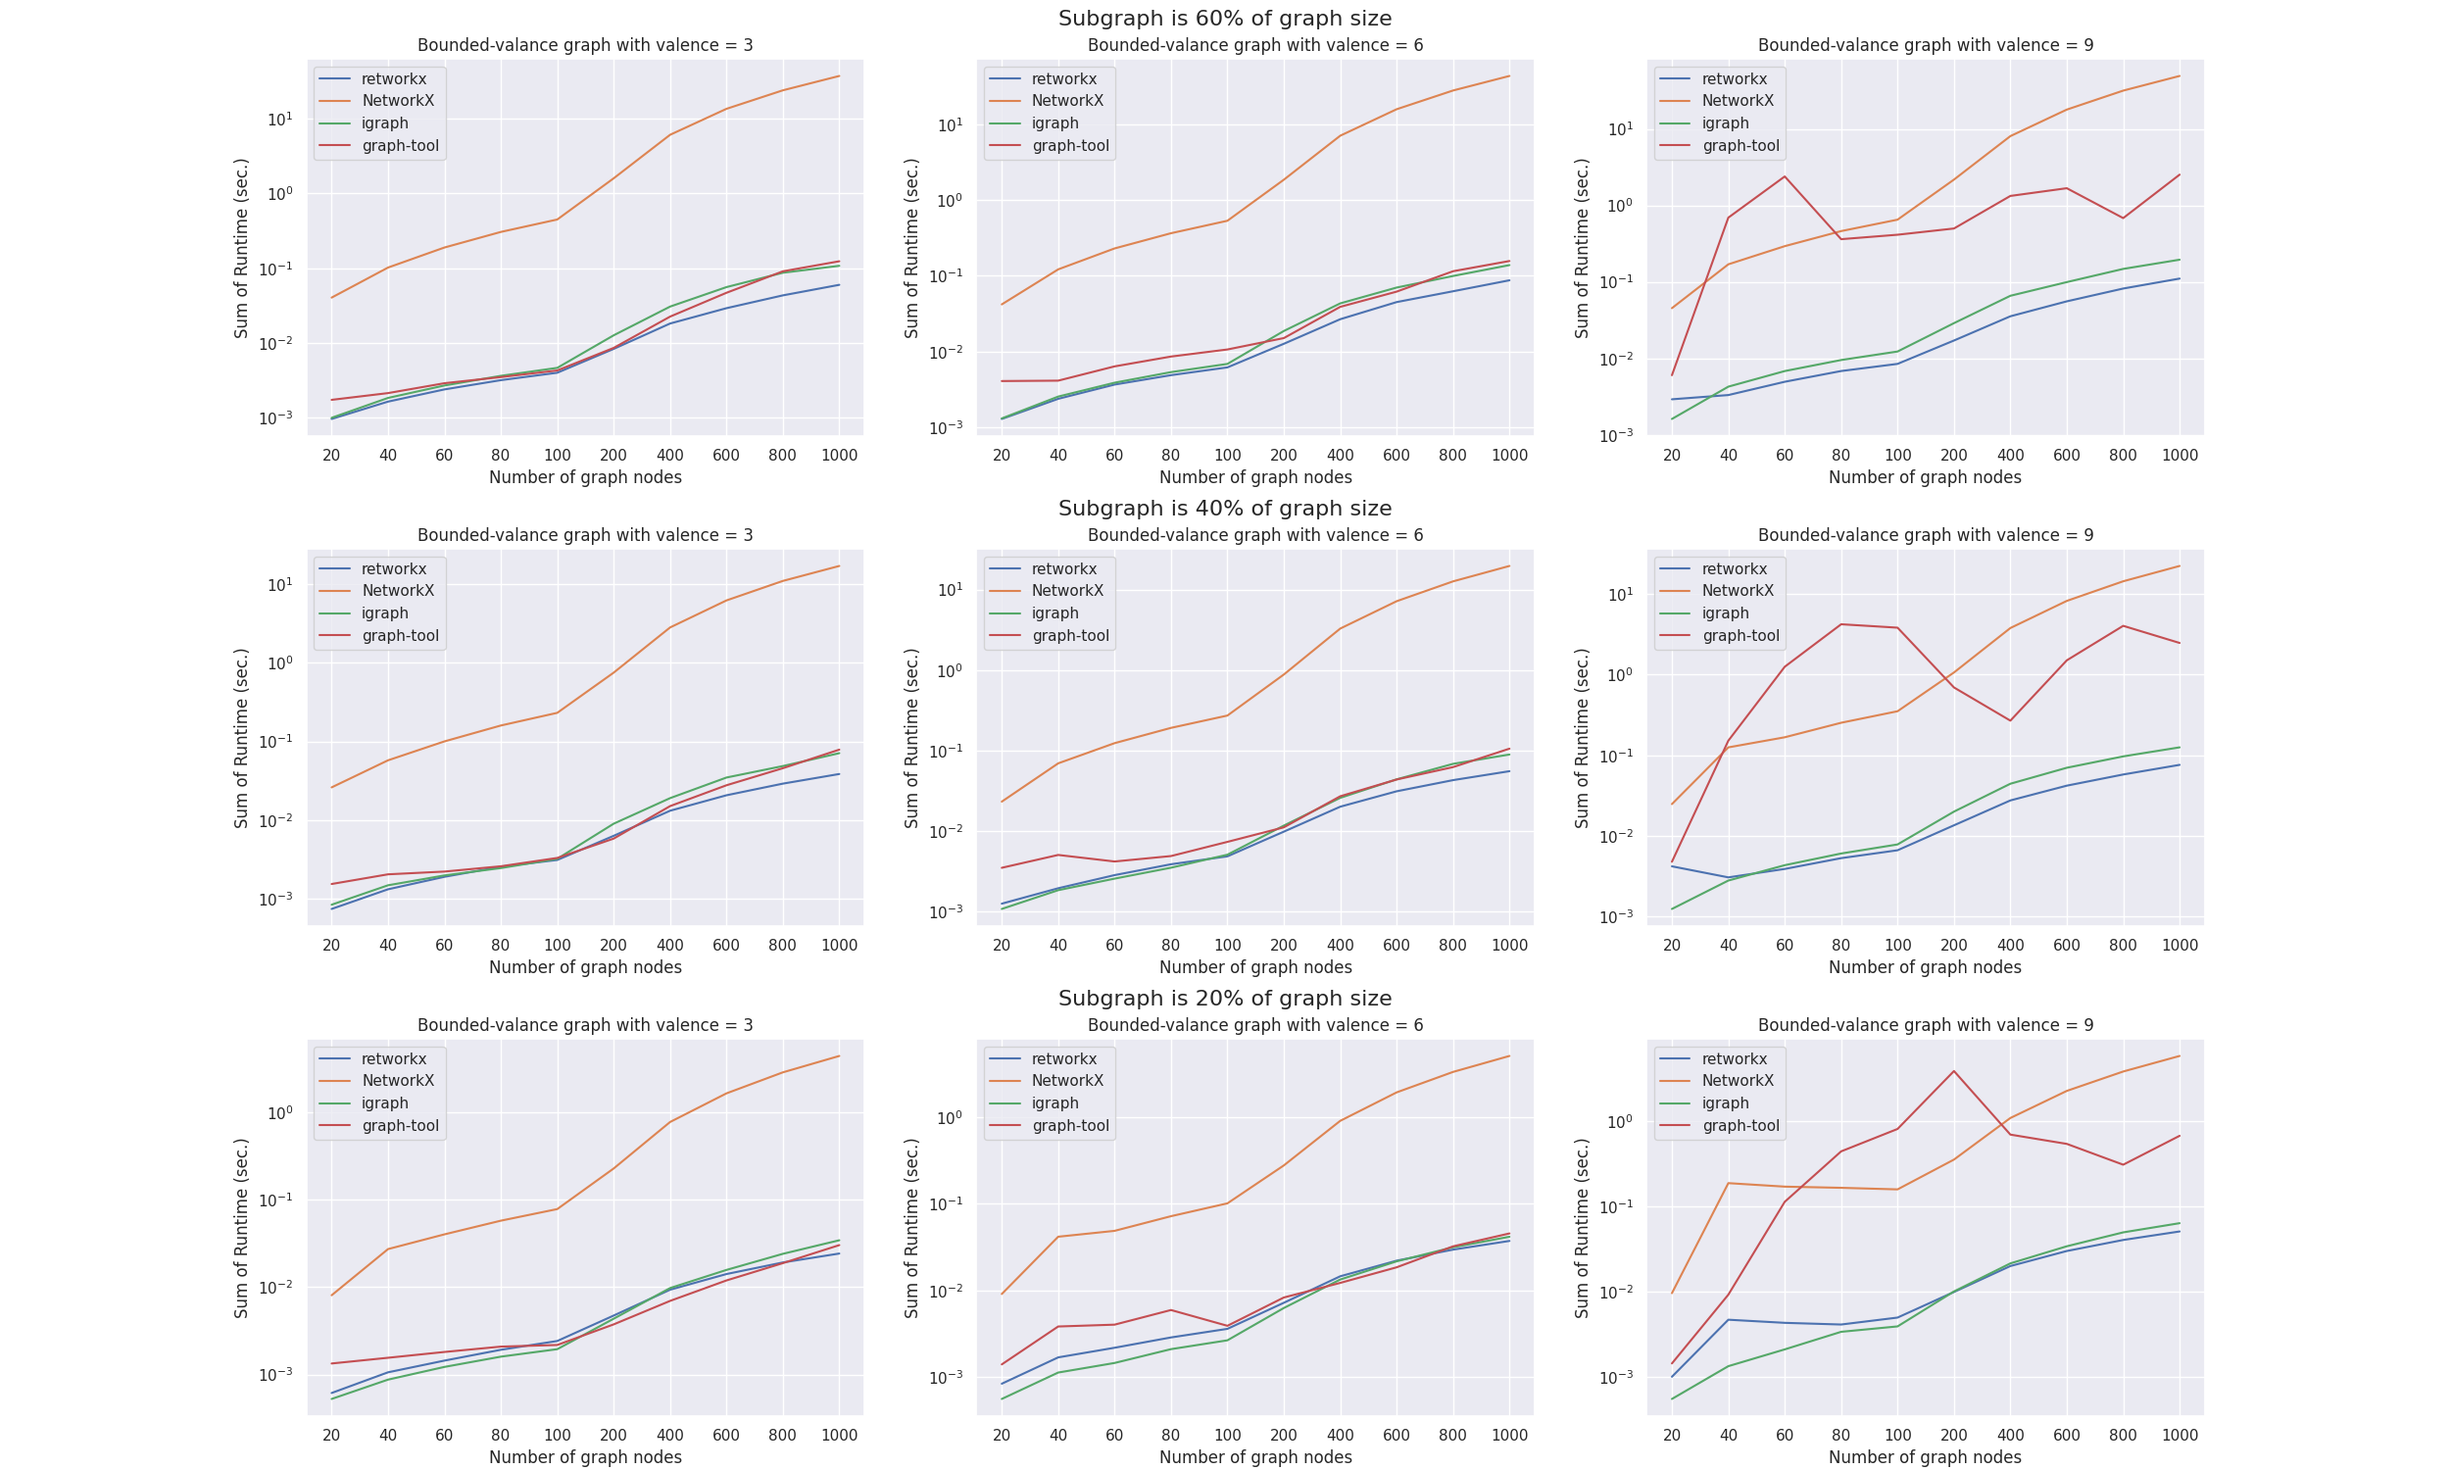
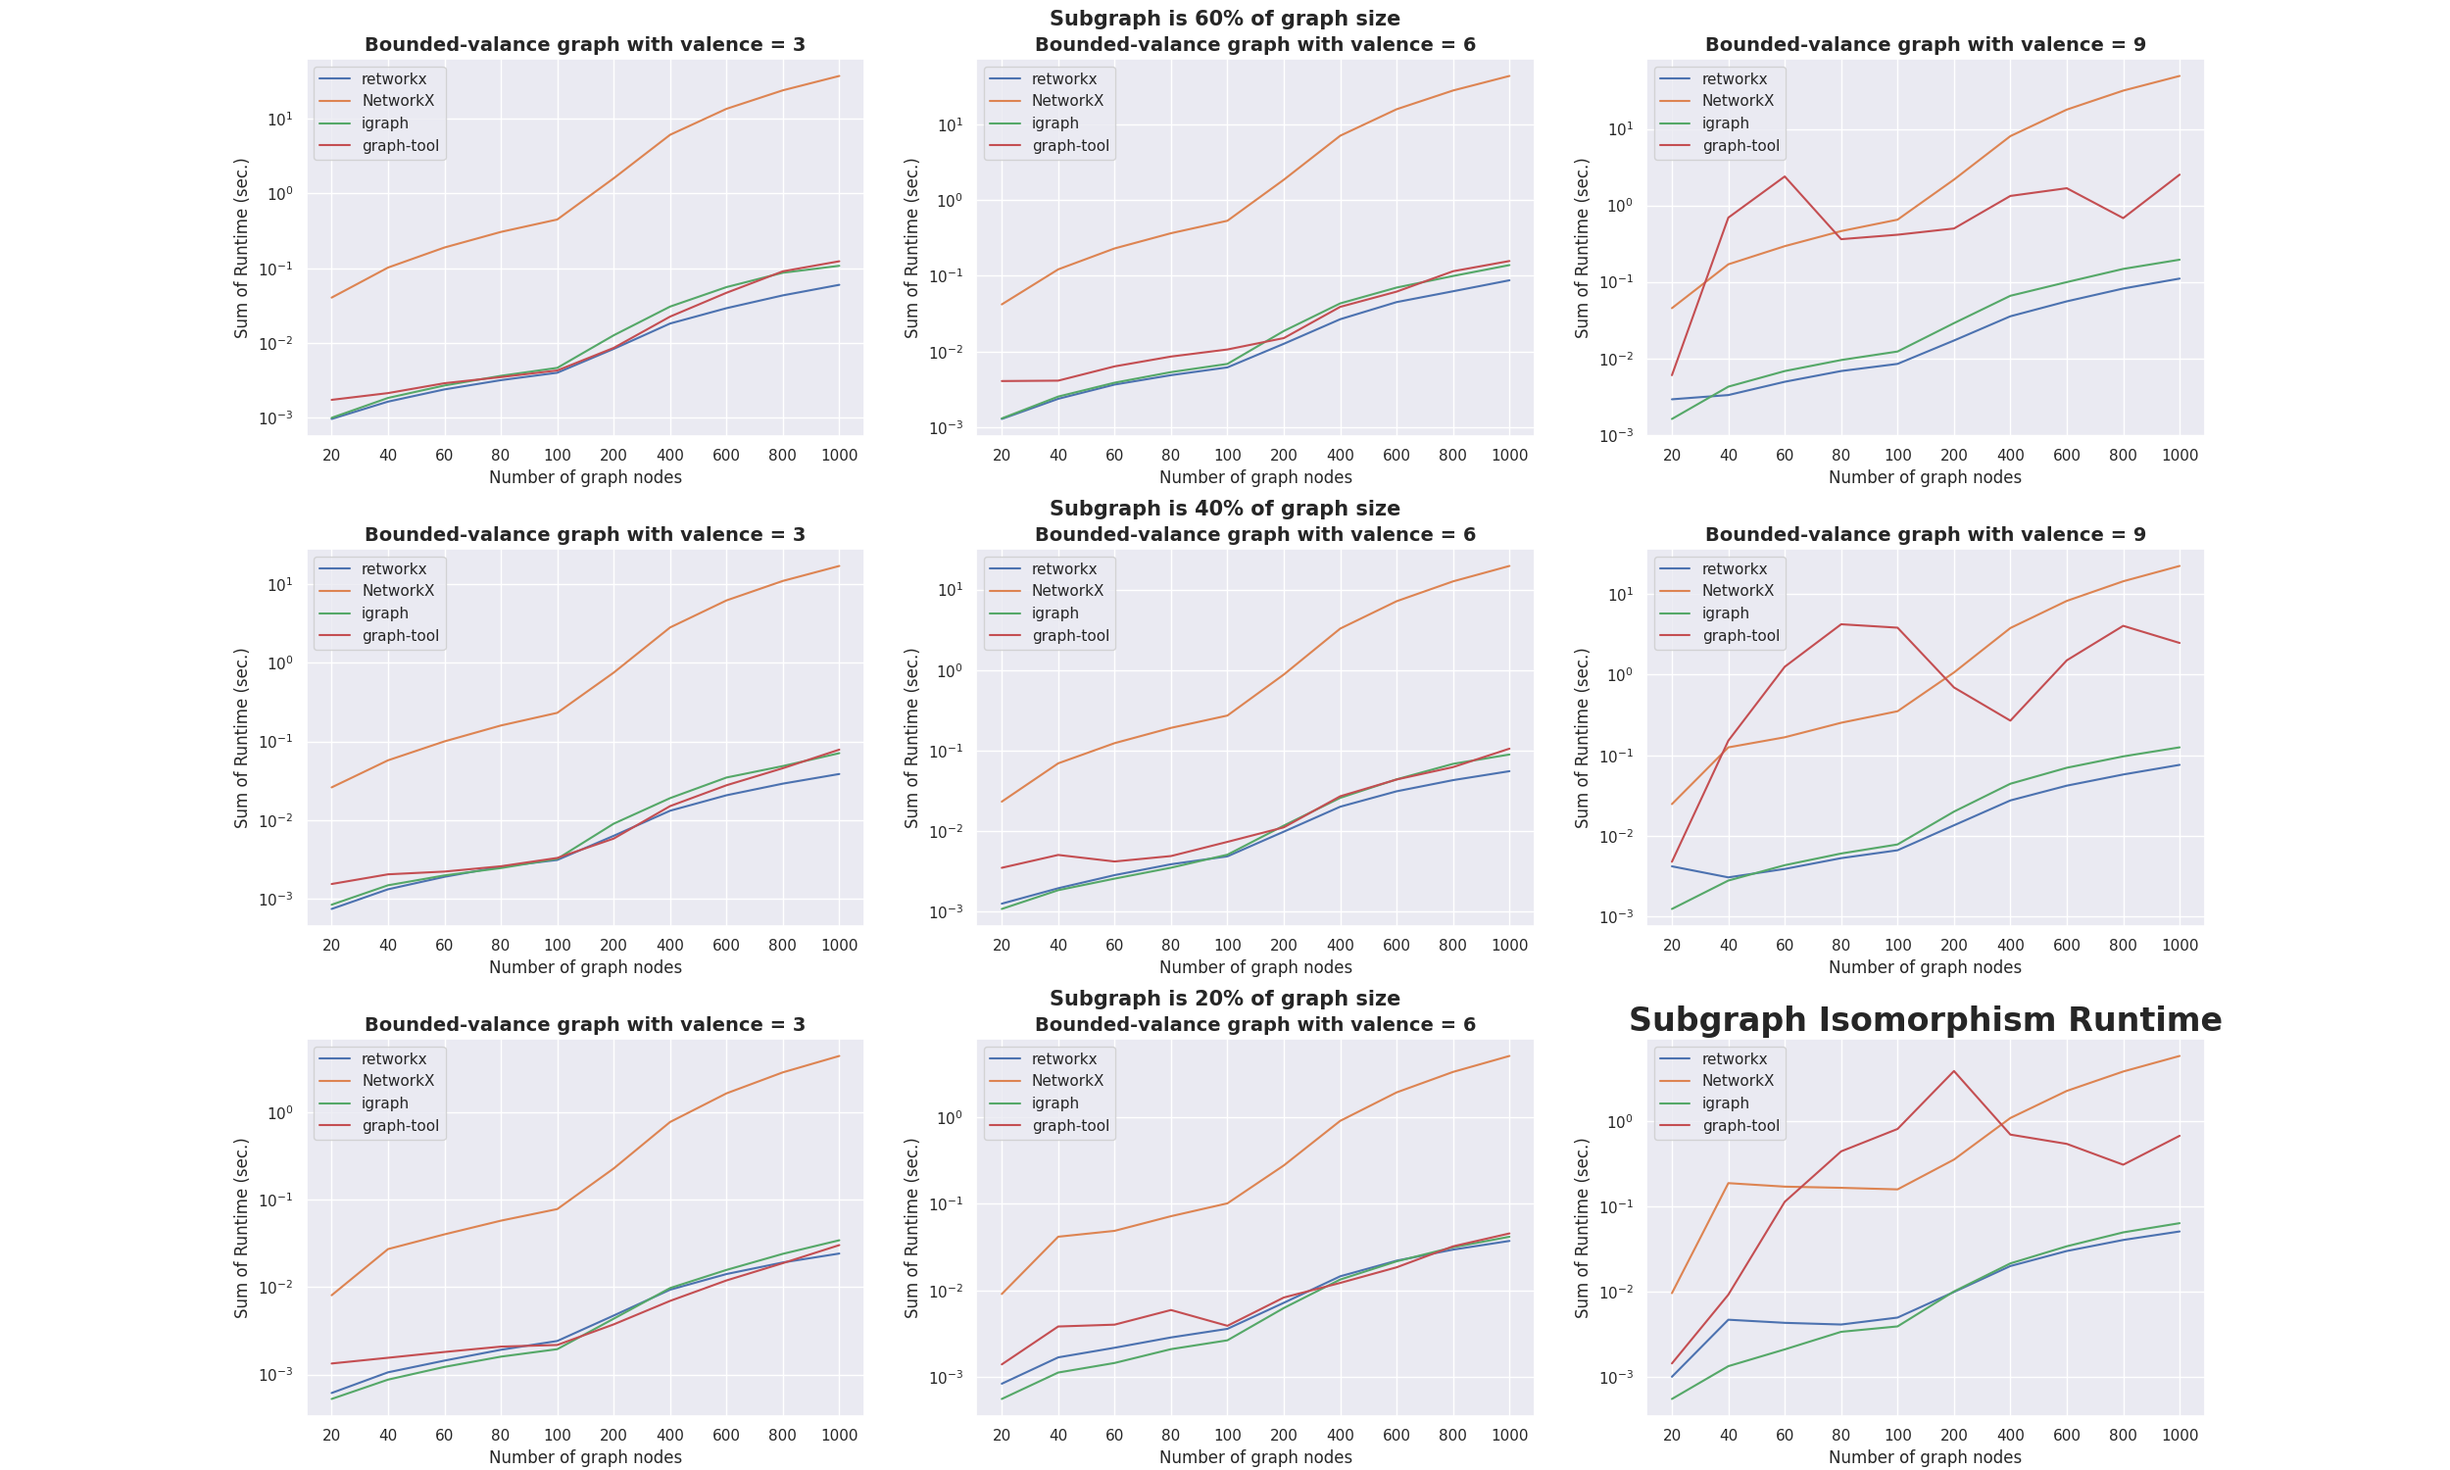
Add bold titles to plots

diff --git a/graph_results.py b/graph_results.py
@@ -80,7 +80,7 @@ def creation_time_graph():
     )
 
     ax.set_ylabel("Runtime (sec.)")
-    ax.set_title("Time to create a weighted directed graph")
+    ax.set_title("Time to create a weighted directed graph", fontweight="bold")
     ax.set_xlabel("Data File")
     ax.set_xticks(x)
     ax.set_xticklabels(single_source_shortest_files)
@@ -152,7 +152,7 @@ def single_source_graph():
     )
 
     ax.set_ylabel("Runtime (sec.)")
-    ax.set_title("Single Source Shortest path between 2 nodes")
+    ax.set_title("Single Source Shortest path between 2 nodes", fontweight="bold")
     ax.set_xlabel("Data File")
     ax.set_xticks(x)
     ax.set_xticklabels(single_source_shortest_files)
@@ -218,7 +218,7 @@ def single_source_graph_NY():
     )
 
     ax.set_ylabel("Runtime (sec.)")
-    ax.set_title("Single Source Shortest path between 2 nodes")
+    ax.set_title("Single Source Shortest path between 2 nodes", fontweight="bold")
     ax.set_xlabel("Data File")
     ax.set_xticks(x)
     ax.set_xticklabels(single_source_shortest_files)
@@ -339,11 +339,10 @@ def isomorphism_graph():
     if HAS_SNS:
         sns.set_theme()
     fig = plt.figure(figsize=(25, 15))
-    fig.suptitle("Subgraph Isomorphsim Runtime")
     subfigs = fig.subfigures(nrows=3, ncols=1)
     for i, percent in enumerate(["si6", "si4", "si2"]):
         subfig = subfigs[i]
-        subfig.suptitle(f"Subgraph is {percent[-1]}0% of graph size", fontsize=16)
+        subfig.suptitle(f"Subgraph is {percent[-1]}0% of graph size", fontsize=15, fontweight="bold")
         ax = subfig.subplots(nrows=1, ncols=3)
         for j, valence in enumerate(["b03", "b06", "b09"]):
             indices = []
@@ -367,14 +366,14 @@ def isomorphism_graph():
             ax[j].plot(igraph_data, label="igraph")
             ax[j].plot(graph_tool_data, label="graph-tool")
             ax[j].set_ylabel("Sum of Runtime (sec.)")
-            ax[j].set_title(f"Bounded-valance graph with valence = {valence[-1]}")
+            ax[j].set_title(f"Bounded-valance graph with valence = {valence[-1]}", fontweight="bold", fontsize=14)
             ax[j].set_xlabel("Number of graph nodes")
             ax[j].set_xticks(x)
             ax[j].set_xticklabels(indices)
             ax[j].legend()
             ax[j].set_yscale("log")
 
-    fig.suptitle("Subgraph Isomorphism Runtime", fontsize=24)
+    plt.suptitle("Subgraph Isomorphism Runtime", fontsize=24, fontweight="bold")
     fig.savefig("subgraph_isomorphism.png")
 
     if HAS_TIKZ:
